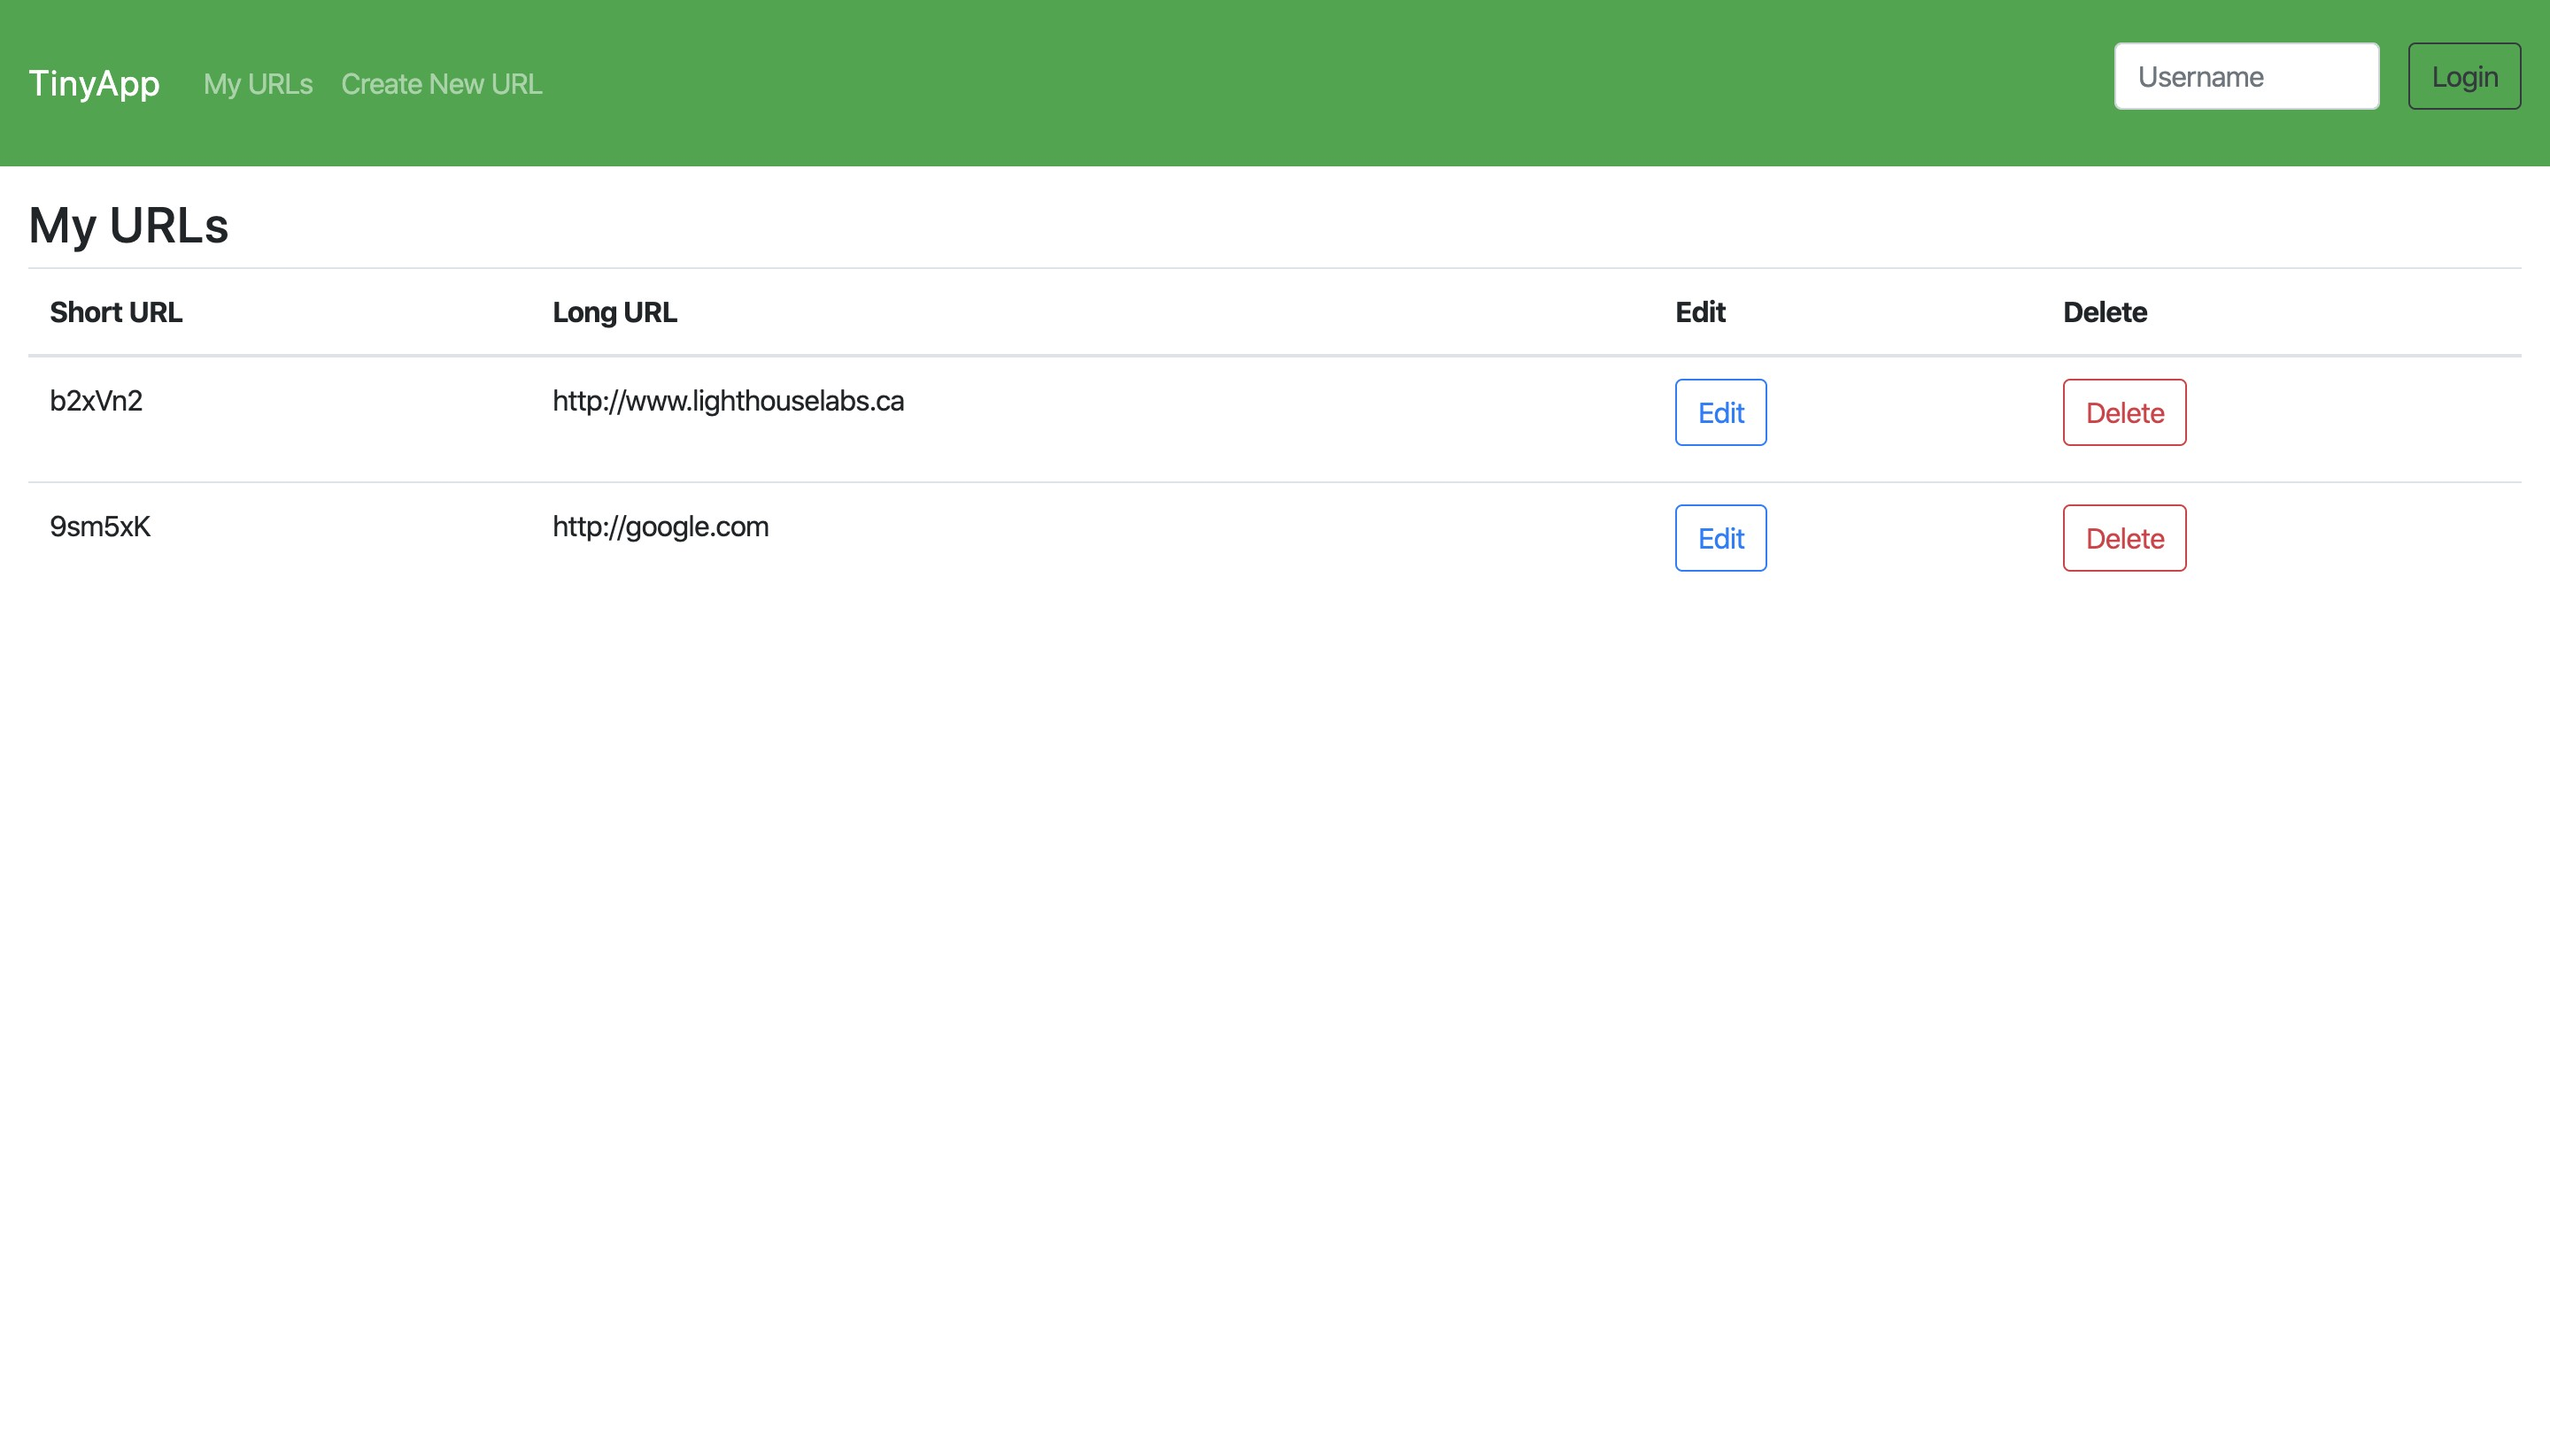
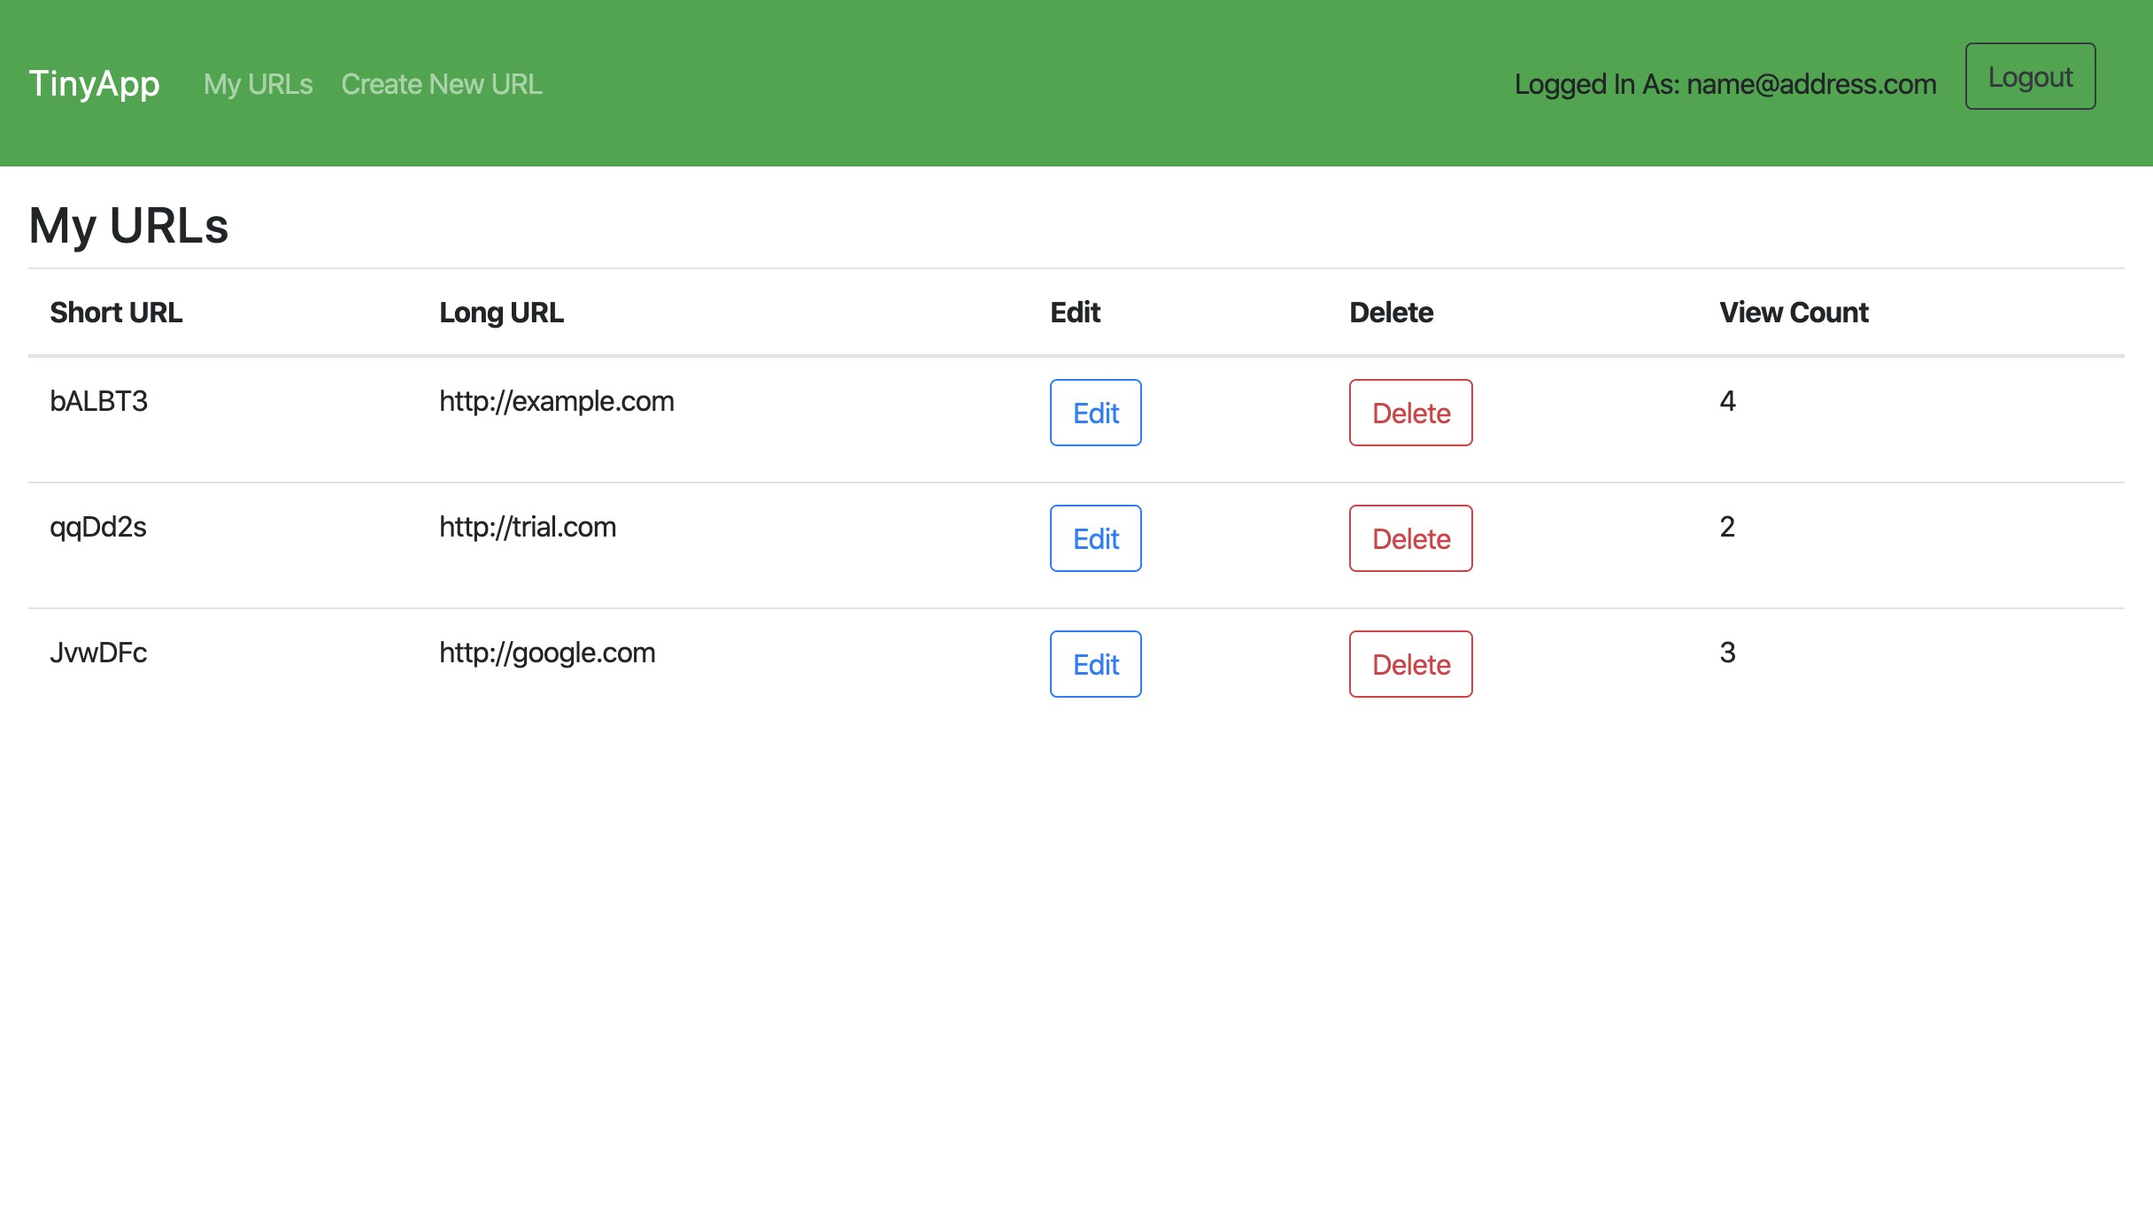
updated README, added visitor count to /urls

diff --git a/express_server.js b/express_server.js
@@ -78,6 +78,7 @@ app.get("/urls", (req, res) => {
   }
   let templateVars = {
     user: user,
+    database: urlDatabase,
     urls: urlSummary // sending only the urls associated with the user
   };
   res.render("urls_index", templateVars);
@@ -163,7 +164,7 @@ app.get("/u/:shortURL", (req, res) => {
 });
 
 
-//---------------------- POST -------------------------------//
+//---------------------- POST / PUT / DELETE -------------------------------//
 
 
 app.post("/urls", (req, res) => {

diff --git a/README.md b/README.md
@@ -2,7 +2,11 @@
 
 A full stack web app built with Node and Express that allows users to shorten long URLs (i.e. bit.ly).
 
+## Final Product
+
 ![urls screenshot](/images/urls.jpeg)
+
+![example_com screenshot](/images/example_com.jpeg)
 
 ## Purpose
 
@@ -12,27 +16,34 @@ This project was created and published by me as part of my learnings at Lighthou
 
 ## Usage
 
-**Install**
+### Key Features
 
+* Users can register and login - passwords are hashed for storage
+* Encrypted cookies are issued to the user to ensure handle permissions around the site
+* method-override is utilized to ensure the proper HTTP methods are implemented
+* Each page for a given shortURL shows:
+  * The number of times the shortURL has been used
+  * The number of unique visitors who have used the shortURL
+
+### Install
+
+Fork and Clone from the following Github repository:
 `https://github.com/cmastel/tinyapp`
 
-**Dependencies**
+### Dependencies
 
-Node.js
+* Node.js
 * Express
 * EJS
-* cookieParser
-* bodyParser
+* cookie-session
+* body-parser
+* bcrypt
+* method-override
 
-**Getting Started**
+### Getting Started
 
 * `npm install` to install all dependencies
 * Run the development web server using `node express_server.js`
 * Open `localhost:8080/urls` in your browser
 
 
-## Documentation
-
-The following functions are currently implemented:
-
-* `generateRandomString`: generates a random alpha-numeric string of 6 characters
